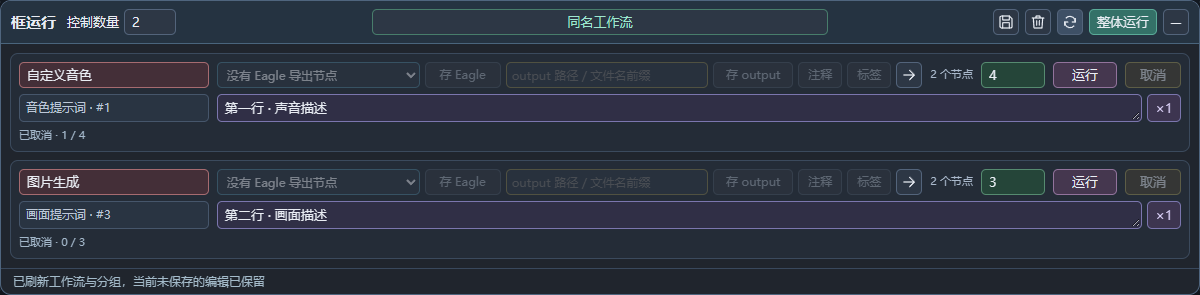
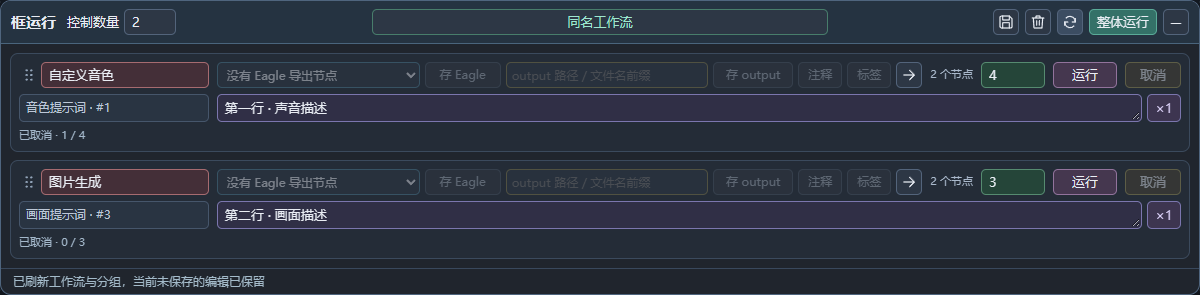
Update Group Runner to v1.4.0 with row reordering
Synchronize the latest local plugin files, documentation and examples. Keep existing remote history and exclude generated Python caches.

Changed region(s): [[0.0, 0.5797, 0.0925, 0.6712], [0.0, 0.2136, 0.0925, 0.3051]]

diff --git a/web/panel.js b/web/panel.js
@@ -111,12 +111,42 @@ export class GroupPanel {
         if(connected&&shared)queueMicrotask(load);
         return{root,inputs};
     }
-    render(){this.count.value=this.rows.length;this.list.replaceChildren();this.elements.clear();this.updateHeading();
+    reorderRows(ids){
+        if(!this.ensureCurrent()||ids.length!==this.rows.length||new Set(ids).size!==ids.length)return;
+        const rows=new Map(this.rows.map(row=>[row.id,row]));if(ids.some(id=>!rows.has(id))||ids.every((id,index)=>id===this.rows[index].id))return;
+        this.rows=ids.map(id=>rows.get(id));this.dirty=true;this.runner.reorderRows(this.rows,this.info());this.render();
+        this.notice("行顺序已调整 · 待运行的行按新顺序执行，当前行继续运行；点击保存可保留排序");
+    }
+    rowDrag(handle,line,row){
+        handle.addEventListener("keydown",event=>{
+            if(!["ArrowUp","ArrowDown"].includes(event.key))return;event.preventDefault();
+            const ids=this.rows.map(item=>item.id),from=ids.indexOf(row.id),to=from+(event.key==="ArrowUp"?-1:1);if(to<0||to>=ids.length)return;
+            [ids[from],ids[to]]=[ids[to],ids[from]];this.reorderRows(ids);this.elements.get(row.id)?.handle.focus({preventScroll:true});this.elements.get(row.id)?.line.scrollIntoView({block:"nearest"});
+        });
+        handle.addEventListener("pointerdown",event=>{
+            if(event.button!==0||!event.isPrimary||this.rows.length<2||!this.ensureCurrent())return;
+            this.cancelRowDrag?.();event.preventDefault();handle.focus({preventScroll:true});handle.setPointerCapture(event.pointerId);
+            const context=this.key,graph=this.graph,startY=event.clientY,startX=event.clientX;let y=startY,started=false,ids=null,frame;
+            const markers=()=>{for(const child of this.list.children)child.classList.remove("gr-drop-before","gr-drop-after");};
+            const target=()=>{
+                const others=[...this.list.children].filter(child=>child!==line),before=others.find(child=>{const rect=child.getBoundingClientRect();return y<rect.top+rect.height/2;});
+                ids=others.map(child=>child.dataset.rowId);ids.splice(before?others.indexOf(before):others.length,0,row.id);markers();
+                if(!ids.every((id,index)=>id===this.rows[index].id))(before||others.at(-1))?.classList.add(before?"gr-drop-before":"gr-drop-after");
+            };
+            const scroll=()=>{if(started){const rect=this.list.getBoundingClientRect(),edge=Math.min(36,rect.height/4),speed=y<rect.top+edge?-12:y>rect.bottom-edge?12:0;if(speed){this.list.scrollTop+=speed;target();}}frame=requestAnimationFrame(scroll);};
+            const move=current=>{if(current.pointerId!==event.pointerId)return;y=current.clientY;if(!started&&Math.hypot(current.clientX-startX,y-startY)>4){started=true;line.classList.add("gr-row-dragging");this.list.classList.add("gr-sorting");}if(started){current.preventDefault();target();}};
+            const cleanup=()=>{cancelAnimationFrame(frame);removeEventListener("pointermove",move,true);removeEventListener("pointerup",end,true);removeEventListener("pointercancel",cancel,true);removeEventListener("keydown",key,true);removeEventListener("blur",cancel);handle.removeEventListener("lostpointercapture",cancel);if(handle.hasPointerCapture(event.pointerId))handle.releasePointerCapture(event.pointerId);line.classList.remove("gr-row-dragging");this.list.classList.remove("gr-sorting");markers();this.cancelRowDrag=null;};
+            const cancel=()=>cleanup(),end=current=>{if(current.pointerId!==event.pointerId)return;const order=started?ids:null;cleanup();if(order&&this.key===context&&this.graph===graph){this.reorderRows(order);this.elements.get(row.id)?.handle.focus({preventScroll:true});}},key=current=>{if(current.key==="Escape"){current.preventDefault();current.stopPropagation();cancel();}};
+            this.cancelRowDrag=cancel;addEventListener("pointermove",move,{capture:true,passive:false});addEventListener("pointerup",end,true);addEventListener("pointercancel",cancel,true);addEventListener("keydown",key,true);addEventListener("blur",cancel);handle.addEventListener("lostpointercapture",cancel);frame=requestAnimationFrame(scroll);
+        });
+    }
+    render(){this.cancelRowDrag?.();this.count.value=this.rows.length;this.list.replaceChildren();this.elements.clear();this.updateHeading();
         for(const [index,row]of this.rows.entries()){
             const group=resolveGroup(this.graph,row.group);const line=el("article","gr-row");line.dataset.rowId=row.id;
             const groupButton=button(`第 ${index+1} 行选择分组`,group?.title||row.group?.title||"双击选择分组",()=>{},"gr-group");groupButton.title="双击选择当前工作流中的分组";groupButton.dataset.missing=String(!!row.group&&!group);
             groupButton.addEventListener("dblclick",()=>this.chooseGroup(row));groupButton.addEventListener("keydown",event=>{if(event.key==="Enter")this.chooseGroup(row);});
-            const groupCell=el("div","gr-group-cell");groupCell.append(groupButton);const nodeCount=el("small","gr-node-count",group?`${members(this.graph,group).length} 个节点`:row.group?"分组已移除":"未选择");
+            const handle=iconButton(`拖动第 ${index+1} 行排序`,["M8 5h1M15 5h1M8 12h1M15 12h1M8 19h1M15 19h1"],()=>{});handle.classList.add("gr-row-handle");handle.title="拖动调整行顺序；聚焦后按 ↑ / ↓ 也可排序";this.rowDrag(handle,line,row);
+            const groupCell=el("div","gr-group-cell");groupCell.append(handle,groupButton);const nodeCount=el("small","gr-node-count",group?`${members(this.graph,group).length} 个节点`:row.group?"分组已移除":"未选择");
             const eagle=this.eagleControls(row,group,index);
             const promptCell=el("div","gr-prompt-stack"),nodes=group?textNodes(this.graph,group):[],entries=group?syncPrompts(row,nodes):[],prompts=[];
             for(const [promptIndex,entry]of (entries.length?entries:[null]).entries()){
@@ -140,7 +170,7 @@ export class GroupPanel {
             }
             const count=el("input","gr-batch");count.type="number";count.min=1;count.max=1000;count.value=row.count;count.ariaLabel=`第 ${index+1} 行运行次数`;count.addEventListener("change",()=>{row.count=Math.max(1,Math.min(1000,Math.round(Number(count.value)||1)));count.value=row.count;this.dirty=true;});
             const run=button(`运行第 ${index+1} 行`,"运行",()=>this.start(row),"gr-run"),cancel=button(`取消第 ${index+1} 行`,"取消",()=>this.runner.cancel(row.id),"gr-cancel");
-            const progress=el("div","gr-progress","待命");progress.setAttribute("role","status");const main=el("div","gr-row-main");main.append(groupCell,eagle.root,nodeCount,count,run,cancel);line.append(main,promptCell,progress);this.list.append(line);this.elements.set(row.id,{line,groupButton,prompts,eagle:eagle.inputs,count,run,cancel,progress});
+            const progress=el("div","gr-progress","待命");progress.setAttribute("role","status");const main=el("div","gr-row-main");main.append(groupCell,eagle.root,nodeCount,count,run,cancel);line.append(main,promptCell,progress);this.list.append(line);this.elements.set(row.id,{line,handle,groupButton,prompts,eagle:eagle.inputs,count,run,cancel,progress});
         }this.structureSignature=this.structure();this.updateJobs();this.layout();this.fitPrompts();
     }
     updateJobs(){if(!this.runner)return;const busy=this.rows.some(row=>this.runner.jobFor(row.id));this.count.disabled=busy;this.saveButton.disabled=this.saving;this.deleteButton.disabled=!this.bindingId||busy||this.saving;this.runAll.disabled=this.prefs.minimized;
@@ -171,10 +201,10 @@ export class GroupPanel {
     setView(){this.panel.hidden=!!this.prefs.minimized;this.pill.hidden=!this.prefs.minimized;if(this.prefs.minimized)this.layoutPill();}
     layoutPill(){const width=this.pill.offsetWidth||70,height=this.pill.offsetHeight||30;const x=Number.isFinite(this.prefs.pillX)?this.prefs.pillX:22,y=Number.isFinite(this.prefs.pillY)?this.prefs.pillY:innerHeight-height-22;this.prefs.pillX=Math.max(4,Math.min(x,innerWidth-width-4));this.prefs.pillY=Math.max(4,Math.min(y,innerHeight-height-4));Object.assign(this.pill.style,{left:this.prefs.pillX+"px",top:this.prefs.pillY+"px",bottom:"auto"});}
     dragPill(){this.pill.addEventListener("pointerdown",event=>{if(event.button!==0)return;this.pillDragged=false;const start={x:event.clientX,y:event.clientY,left:this.prefs.pillX,top:this.prefs.pillY};this.pill.setPointerCapture(event.pointerId);const move=current=>{if(Math.hypot(current.clientX-start.x,current.clientY-start.y)>4)this.pillDragged=true;if(!this.pillDragged)return;this.prefs.pillX=start.left+current.clientX-start.x;this.prefs.pillY=start.top+current.clientY-start.y;this.layoutPill();};const end=()=>{this.pill.removeEventListener("pointermove",move);this.pill.removeEventListener("pointerup",end);this.pill.removeEventListener("pointercancel",end);this.savePrefs();};this.pill.addEventListener("pointermove",move);this.pill.addEventListener("pointerup",end);this.pill.addEventListener("pointercancel",end);});}
-    minimize(){this.runner.pause("浮窗已最小化，等待手动继续");this.prefs.minimized=true;this.closeModal();this.savePrefs();this.setView();}
+    minimize(){this.cancelRowDrag?.();this.runner.pause("浮窗已最小化，等待手动继续");this.prefs.minimized=true;this.closeModal();this.savePrefs();this.setView();}
     restore(){this.prefs.minimized=false;this.savePrefs();this.setView();this.syncWorkflow();this.render();this.notice("已恢复 · 暂停的批次需点击继续");}
     layout(){const width=Math.max(320,Math.min(1200,innerWidth-24));this.prefs.x=Math.max(8,Math.min(Number(this.prefs.x)||8,innerWidth-width-8));this.prefs.y=Math.max(8,Math.min(Number(this.prefs.y)||8,innerHeight-80));Object.assign(this.panel.style,{width:width+"px",left:this.prefs.x+"px",top:this.prefs.y+"px",maxHeight:Math.max(100,innerHeight-this.prefs.y-10)+"px"});}
     drag(){this.header.addEventListener("pointerdown",event=>{if(event.button!==0||event.target.closest("button,input,label"))return;event.preventDefault();const start={x:event.clientX,y:event.clientY,left:this.prefs.x,top:this.prefs.y};this.header.setPointerCapture(event.pointerId);const move=current=>{this.prefs.x=start.left+current.clientX-start.x;this.prefs.y=start.top+current.clientY-start.y;this.layout();};const end=()=>{this.header.removeEventListener("pointermove",move);this.header.removeEventListener("pointerup",end);this.header.removeEventListener("pointercancel",end);this.savePrefs();};this.header.addEventListener("pointermove",move);this.header.addEventListener("pointerup",end);this.header.addEventListener("pointercancel",end);});}
-    destroy(){this.destroyed=true;this.runner.pause("面板已关闭");clearInterval(this.timer);removeEventListener("resize",this.onResize);removeEventListener("group-runner-text-drafts",this.onNodeText);this.closeModal();this.root.remove();}
+    destroy(){this.cancelRowDrag?.();this.destroyed=true;this.runner.pause("面板已关闭");clearInterval(this.timer);removeEventListener("resize",this.onResize);removeEventListener("group-runner-text-drafts",this.onNodeText);this.closeModal();this.root.remove();}
 }
 

diff --git a/web/runner.js b/web/runner.js
@@ -16,10 +16,17 @@ export class GroupQueue {
         }
         for(const row of selected)this.jobs.push({id:uid(),row:structuredClone(row),sourceRow:row,total:row.count*rowVariantCount(row),graph:info.graph,identity:info.identity,state:"queued",done:0,message:"等待执行",cancelled:false});
         const wanted=new Map(rows.map(row=>[row.id,row]));for(const job of this.jobs)if(wanted.has(job.row.id)&&job.identity===info.identity){job.sourceRow=wanted.get(job.row.id);job.suspended=false;if(job.state==="paused"){job.state="queued";job.message="等待继续";}}
-        this.paused=false;
+        this.reorderRows(rows,info);this.paused=false;
         this.onChange(); this.pump();
     }
     updateDraft(row){const job=this.jobFor(row.id);if(job){job.sourceRow=row;job.total=job.row.count*rowVariantCount(row);this.onChange();}}
+    reorderRows(rows,info){
+        // Only reorder pending jobs from this workflow. The current row keeps
+        // its remaining batches; submitted prompts and other clients are untouched.
+        const rank=new Map(rows.map((row,index)=>[row.id,index])),slots=[];
+        this.jobs.forEach((job,index)=>{if(job!==this.current&&job.graph===info.graph&&job.identity===info.identity&&rank.has(job.row.id)&&["queued","paused"].includes(job.state))slots.push(index);});
+        const ordered=slots.map(index=>this.jobs[index]).sort((a,b)=>rank.get(a.row.id)-rank.get(b.row.id));slots.forEach((index,offset)=>this.jobs[index]=ordered[offset]);
+    }
     pause(message="已暂停后续批次") {
         this.paused=true;
         for(const job of this.jobs)if(["queued","running","submitting"].includes(job.state)){job.suspended=true;if(job.state==="queued"){job.state="paused";job.message=message;}}

diff --git a/web/style.css b/web/style.css
@@ -23,8 +23,15 @@
 .gr-row{--gr-label-width:190px;display:flex;flex-direction:column;gap:6px;margin-bottom:8px;padding:8px;background:#242c37;border:1px solid #3b4a5d;border-radius:8px;min-width:0}
 .gr-row:last-child{margin-bottom:0}
 .gr-row-main{display:grid;grid-template-columns:var(--gr-label-width) minmax(0,1fr) auto 64px 64px 56px;align-items:center;gap:8px}
-.gr-group-cell{min-width:0}
-.gr-host .gr-group{width:100%;text-align:left;border-color:#a66b70;background:#442f38;overflow:hidden;text-overflow:ellipsis;white-space:nowrap}
+.gr-group-cell{min-width:0;position:relative}
+.gr-host .gr-row-handle{position:absolute;left:3px;top:0;z-index:1;width:18px;height:26px;padding:1px;border-color:transparent;background:transparent;color:#a6b6c9;cursor:grab;touch-action:none;user-select:none}
+.gr-row-handle svg{stroke-width:3}
+.gr-host .gr-row-handle:active{cursor:grabbing}
+.gr-sorting{user-select:none;overflow-anchor:none}
+.gr-row-dragging{opacity:.55;border-color:#83c5dc}
+.gr-drop-before{box-shadow:0 -3px 0 #83c5dc}
+.gr-drop-after{box-shadow:0 3px 0 #83c5dc}
+.gr-host .gr-group{width:100%;padding-left:25px;text-align:left;border-color:#a66b70;background:#442f38;overflow:hidden;text-overflow:ellipsis;white-space:nowrap}
 .gr-group[data-missing=true]{color:#f3b6a8}
 .gr-node-count{font-size:11px;color:#aab9cc;white-space:nowrap}
 .gr-export-controls{display:grid;grid-template-columns:minmax(65px,1.2fr) 76px minmax(65px,1.2fr) 80px 44px 44px 26px;gap:5px;align-items:center;min-width:0}

diff --git a/web/group_runner.js b/web/group_runner.js
@@ -8,6 +8,6 @@ app.registerExtension({name:"GroupRunner.FloatingPanel",beforeRegisterNodeDef(no
     nodeType.prototype.onNodeCreated=function(){const result=created?.apply(this,arguments);installTextVariants(this);return result;};
 },async setup(){
     if(globalThis.GroupRunnerUI?.root?.isConnected)return;
-    if(!document.getElementById("group-runner-style")){const css=document.createElement("link");css.id="group-runner-style";css.rel="stylesheet";css.href=new URL("./style.css?v=1.3.0",import.meta.url).href;document.head.append(css);}
+    if(!document.getElementById("group-runner-style")){const css=document.createElement("link");css.id="group-runner-style";css.rel="stylesheet";css.href=new URL("./style.css?v=1.4.0",import.meta.url).href;document.head.append(css);}
     globalThis.GroupRunnerUI=new GroupPanel({app,api});await GroupRunnerUI.ready;
 }});

diff --git a/README.md b/README.md
@@ -1,6 +1,10 @@
-# 框运行 · ComfyUI Group Runner 1.3.0
+# 框运行 · ComfyUI Group Runner 1.4.0
 
 把 Ctrl + G 创建的分组放进一个可拖动浮窗，按行管理提示词、运行次数和取消。它是独立插件，无需改动 EagleAssets 或 OllamaStudio。
+
+1.4.0 增加行拖拽排序：按住每行分组名称左侧的六点手柄上下拖动，蓝色横线表示放置位置，松开即可换位。分组、全部提示词、次数及 Eagle 保存设置一起移动；拖到列表上下边缘可自动滚动，按 Esc 可取消拖动。也可聚焦手柄后按 ↑ / ↓ 调整顺序。文本框仍可正常选择与编辑文字。
+
+「整体运行」按新顺序执行。运行过程中排序时，当前行继续完成自己的批次，尚未开始的行按新顺序执行。排序后点击右上角保存，可随工作流绑定恢复；未保存的排序在当前页面切换工作流时暂存。
 
 1.3.0 增加多提示词批量运行。双击浮窗中的紫色提示词框（或点击右侧 ×数量），可在弹窗设置文本框数量或逐个添加，填写不同风格的完整提示词。主浮窗只显示第一条非空提示词及已填写数量，空白框不计数；点击 ×、弹窗外侧或 Esc 关闭，编辑即时保留。对应的「框运行 · 通用文本」节点保留第一条，并增加其余提示词的小文本框。批量列表与排除的空白框随工作流绑定保存，节点文本列表也随工作流文件保存。
 
